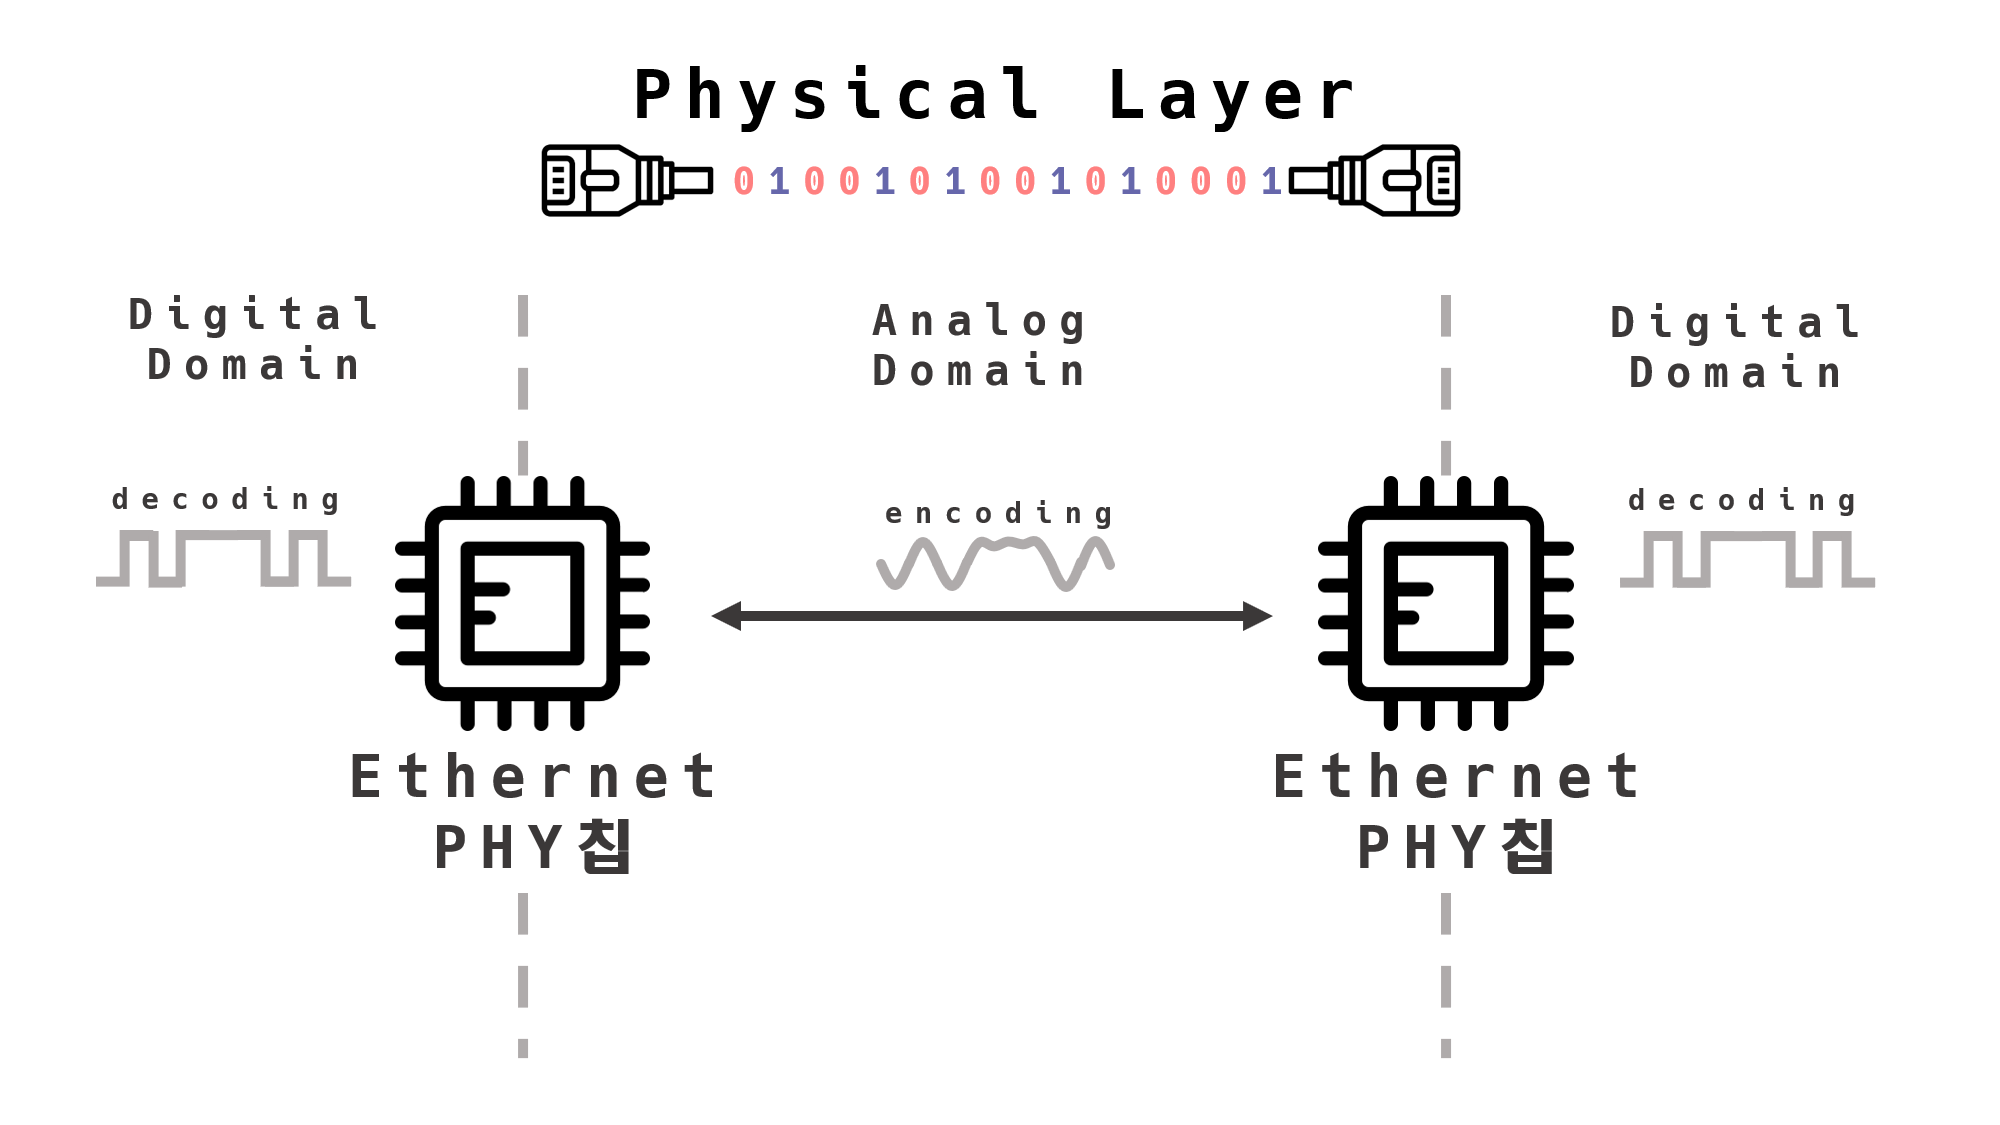
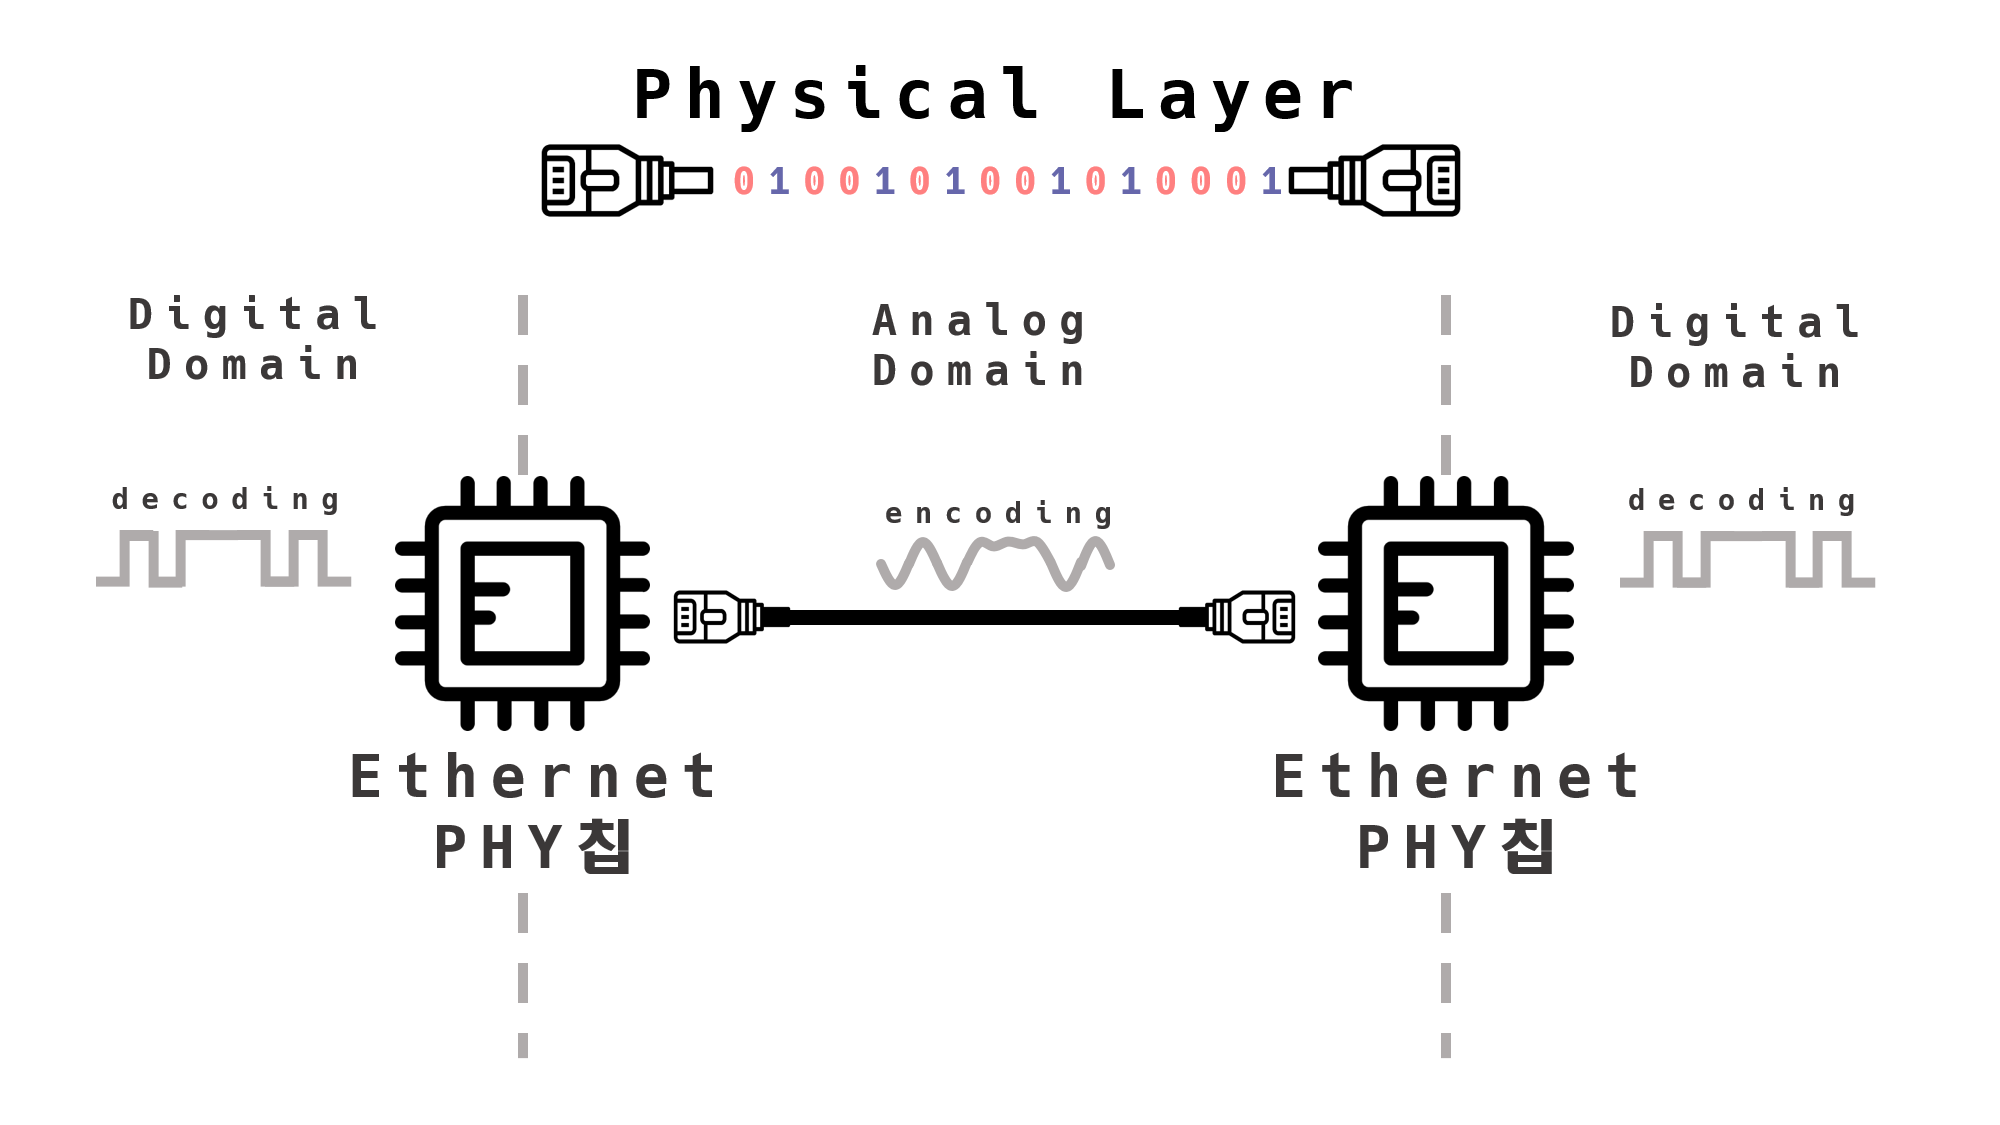
edit osi 7 layer physical layer

Changed region(s): [[0.341, 0.4978, 0.651, 0.5911]]

diff --git a/_posts/development/client/2023-03-02-osi-7-physical-layer.md b/_posts/development/client/2023-03-02-osi-7-physical-layer.md
@@ -43,7 +43,7 @@ image:
 - 하지만, 위 그림처럼 <span style="color:#ff8080">**일정하지 않은 주파수**</span>이면 어떻게 되는 것일까?
 - 위 전자기파의 주파수 최솟값이 `1Hz`, 최댓값이 `10Hz`라고 생각해 보자.
 - 그런데, 모든 전선에는 저항이 있어 전선에 맞는 허용 범위의 전류와 전압이 있다. 
-- 즉, 전선은 모든 전류, 그리고 모든 주파수를 다 통과시키지 못 하고 허용 범위가 생긴다.
+- 즉, 전선은 모든 전류, 그리고 모든 주파수를 다 통과시키지 못하고 허용 범위가 생긴다.
 
 ### 모든 전선에는 저항이 있어 전선에 맞는 허용 범위의 전류와 전압이 존재
   ![Electric Wire](/assets/img/development/client/2023-03-02/electric_wire.png){:.centered width="80%"}
@@ -66,12 +66,12 @@ image:
 
 ### 수직/수평선이 있는 전자기파
 ![Vertical Horizontal_Wave](/assets/img/development/client/2023-03-02/vertical_horizontal_wave.png){:.centered width="80%"}
-> “**그런데, 수직선과 수평선이 있는 전자기파는 항상 0~무한대Hz의 주파수 범위를 갖는다???**”<br><br>
-> “**수직선과 수평선이 있는 전자기파는 편파(polarized) 전자기파이며, 편파전자기파는 진폭이 한 방향으로 고정되어 있고, 이러한 편파 전자기파는 하나의 평면에서 전파가 진행된다.**”<br>
+> “**그런데, 수직선과 수평선이 있는 전자기파는 항상 0~무한대 Hz의 주파수 범위를 갖는다???**”<br><br>
+> “**수직선과 수평선이 있는 전자기파는 편파(polarized) 전자기파이며, 편파 전자기파는 진폭이 한 방향으로 고정되어 있고, 이러한 편파 전자기파는 하나의 평면에서 전파가 진행된다.**”<br>
 > “**따라서, 수직선과 수평선이 있는 전자기파의 주파수 범위는 항상 0 ~ 무한대(Hz)를 갖는다. 왜냐하면 편파 전자기파는 진폭이 한 방향으로 고정되어 있으며, 주파수는 전파의 진동수를 나타내기 때문이다.**”<br><br>
 > “**따라서, 수직선과 수평선이 있는 전자기파는 특정한 주파수 범위에서만 발생하는 것이 아니라, 전체 주파수 범위에서 발생할 수 있다.**”<br>
 
-- 따라서, 이러한 전기신로를 통과시킬 수 있는 전선은 없다.
+- 따라서, 이러한 전기신호를 통과시킬 수 있는 전선은 없다.
 - 그렇다면 `0`과 `1`의 신호를 어떻게 전송해야 할까?
 
 ### 디지털 신호를 아날로그 신호로
@@ -79,46 +79,50 @@ image:
 > “**디지털 신호를 아날로그 신호로 바꿔서 전송해야 한다.**”<br>
 
 #### 아날로그 신호의 특징
-- 아날로그 신호는 끊김없이 연속된 신호로 이루어져있다.
+- 아날로그 신호는 끊김 없이 연속된 신호로 이루어져 있다.
 - 신호의 세기를 아주 정밀하게 표현이 가능하다.
 - 거리에 따라 신호의 세기가 약해지면서 결국 소멸되는 특징을 가지고 있다.
 
 #### 디지털 신호의 특징
 - 디지털 신호는 `1`로 표현하고 싶을 땐 특정 전압 이상을 가하고, `0`으로 표현하고 싶을 땐 특정 전압의 이하로 가해 표현한다.
 - 즉, `1`을 `5V`라고 가정할 때 `1`로 표현하고 싶으면 `5V` 이상의 전압을 가하고, `0`으로 표현하고 싶을 땐 `5V` 이하의 전압을 가하게 된다.
-- 디지털 신호 그래프의 `0`은 끊어진 것처럼 보이지만 사실 끊어진 게 아니라 특정 전압 이하이기 때문에 `0`으로 그래프상 표시한 것 뿐이다. 실제론 계속 전류는 흐른다.
+- 디지털 신호 그래프의 `0`은 끊어진 것처럼 보이지만 사실 끊어진 게 아니라 특정 전압 이하이기 때문에 `0`으로 그래프상 표시한 것뿐이다. 실제론 계속 전류는 흐른다.
 
+### 아날로그 신호와 디지털 신호를 합치면
+![Digital And Analog](/assets/img/development/client/2023-03-02/digital_merge_analog.png){:.centered width="80%"}
+- 위 그림처럼 컴퓨터는 특정 전압(`예 5V`)을 기준으로 미만은 `0`으로, 이상은 `1`로 인식하여 `2진수`의 데이터를 송/수신하게 된다.
+- 그렇게 송/수신한 데이터를 가지고 어떠한 기능((예) 해석, 출력, 등등)을 실행하게 된다.
+
+### 아날로그 신호의 데이터화
 ![Data Collection Graph](/assets/img/development/client/2023-03-02/data_collection_graph.png){:.centered width="80%"}
-- 위 그래프는 `1초` 동안 발생한 아날로그 신호이다.
-- `200ms` 마다 데이터를 수집한다고 가정해보자. 참고로 `200ms`는 `1/5(0.2sec)`초 이다. 
-- 즉, `1초`에 `5번` 아날로그 신호의 데이터를 분석해서 `digital`신호로 바꾸는 작업이다.
-- `200ms`는 기존에 아날로그 신호와 외곡 차이가 심하게 난다.
-- `100ms`는 `200ms`보다 조금 더 아날로그 신호에 가깝다. 
-- `50ms(1초에 20번)` 데이터를 수집하게 되면 `200ms`보다 `4배` 정도 정밀도가 높아진다.
-- 즉, 조금 더 촘촘히 많은 데이터를 수집할 수 록 `아날로그` 데이터에 굉장히 가까워 진다.
-- 아무리 `아날로그 신호`를 `디지털 신호`로 바꾸어도 어쩔 수 없이 데이터 외곡은 생기기 마련이다.
+- 위 그래프는 `1초` 동안 발생한 아날로그 신호를 디지털 신호로 해석한 그래프이다.
+- `1초`의 시간을 촘촘히 측정할 수 있게 된다면 
+- 즉, 조금 더 촘촘히 많은 데이터를 수집할 수 록 `아날로그` 데이터에 굉장히 가까워진다.
+- 아무리 `아날로그 신호`를 `디지털 신호`로 바꾸어도 어쩔 수 없이 데이터 왜곡은 생기기 마련이다.
 
 #### 가정에서 많이 사용하는 CAT5.E Cable
 ![CAT.5E Cable](/assets/img/development/client/2023-03-02/cat5e_cable.png){:.centered width="80%"}
 
 #### CAT.5E vs CAT.6 차이
 ![CAT.5E vs CAT.6 Cable](/assets/img/development/client/2023-03-02/cat5e_vs_cat6.png){:.centered width="80%"}
-- 1초에 `100MHz`의 데이터 전송이 가능한 케이블이다.
-- 위에서 예시로 든 `50ms(1초에 20번)`와 1초에 `100MHz(1초에 1,000,000번 - 100만 번)`의 데이터 수집량에 엄청난 차이를 느낄 수 있다.
-    - 참고로, **“현재 통신사에서1기가 인터넷을 최대 속도로 서비스하고 있는 상황에서 케이블의 종류에 따른 속도의 차이는 없다”**
-    - 다만, 차후 `2.5G`나 `5G`의 속도가 상용화 되면 지금의 `1Gbps`보다 빠른 속도를 제공받을 수 있다는 이야기.
+> “bps = bit per second(1초당 몇 비트를 전송하는가?) 즉, 100메가 인터넷 속도는 100Mbps이고 이는 1초에 100Megabit 즉, 12.5MB(메가 바이트)의 데이터를 다운로드할 수 있다는 이야기다.<br>또한 100MHz(100 메가헤르츠) 주파수의 전파는 1초에 100만 번 진동한다는 의미이다.”
 
-## PHY 칩
+- 1초에 `100MHz`의 데이터 전송이 가능한 케이블이다.
+- 위에서 예시로 든 `50ms(1초에 20번)`와 1초에 `100MHz(1초에 1,000,000번 - 100만 번)`의 데이터 수집 양에 엄청난 차이를 느낄 수 있다.
+    - 참고로, **“현재 통신사에서 1기가 인터넷을 최대 속도로 서비스하고 있는 상황에서 케이블의 종류에 따른 속도의 차이는 없다.”**
+    - 다만, 차후 `2.5G`나 `5G`의 속도가 상용화되면 지금의 `1Gbps`보다 빠른 속도를 제공받을 수 있다는 이야기.
+
+## 위 전파(전자기파) 신호를 담당하는 하드웨어 PHY 칩
 ![Phy 칩](/assets/img/development/client/2023-03-02/phy_chip.png){:.centered width="80%"}
 - `Physical Layer`는 하드웨어적으로 구현되어 있다.
-- `PHY 칩은`이 `아날로그 신호`를 `디지털 신호(decoding)`로,
-- `디지털 신호`를 `아날로그 신호(encoding)`로 변환해주는 하드웨어이다.
+- `PHY 칩`이 `아날로그 신호`를 `디지털 신호(decoding)`로,
+- `디지털 신호`를 `아날로그 신호(encoding)`로 변환해 주는 하드웨어이다.
 
 ## 그래서 결국 Physical Layer란?
-- 물리적인 전선을 통해 `0`과 `1`의 나열된 신호를 통신하는 계층이다.
-- `0`과 `1`의 나열된 `디지털 신호`를 `아날로그 신호`로 바꾸어 전선에 흘려 보낸다. -> **`encoding`**
-- `아날로그 신호`가 들어오면 `0`과 `1`의 나열로 해석한다 -> **`decoding`**
-- 물리적으로 연결된 두 대의 컴퓨터가 `0`과 `1`의 나열을 주고받을 수 있게 해주는 모듈(**`module`**)
+- 물리적인 `전선`과 `Phy 칩`을 통해 `0`과 `1`의 나열된 신호를 **`통신하는 계층`**이다.
+- `0`과 `1`의 나열된 `디지털 신호`를 `아날로그 신호`로 바꾸어 전선을 통해 송신하게 된다. -> **`encoding`**
+- `아날로그 신호`가 들어오면 `0`과 `1`의 나열로 해석한다. -> **`decoding`**
+- 물리적으로 연결된 두 대의 컴퓨터가 `0`과 `1`의 나열을 주고받을 수 있게 해주는 모듈(**`module`**)이다.
 
 ## Reference
 - [[10분 테코톡] 🔮 히히의 OSI 7 Layer](https://www.youtube.com/watch?v=1pfTxp25MA8&t=35s){:target="_blank"}

diff --git a/_posts/dailylog/routine/2023/04-april/2023-03-27-week-11th.md b/_posts/dailylog/routine/2023/04-april/2023-03-27-week-11th.md
@@ -21,6 +21,10 @@ image:
 - cover img와 내용들을 수정 후 나의 블로그 소개 글 또한 수정할 예정이다.
 
 # 2023-3-28
+![2023-03-28](/assets/img/daily/routine/2023/2023-04-02/2023-03-28_myroutine.png){:.centered width="100%"}
+- 오늘도 영한 님, 재성 님과 함께!
+- 어제 퇴근 후 이번 주 있을 발표자료 미비된 준비하고 아침에 출근 해서 마지막 미비된 부분을 수정하였다.
+
 # 2023-3-29
 # 2023-3-30
 # 2023-3-31
